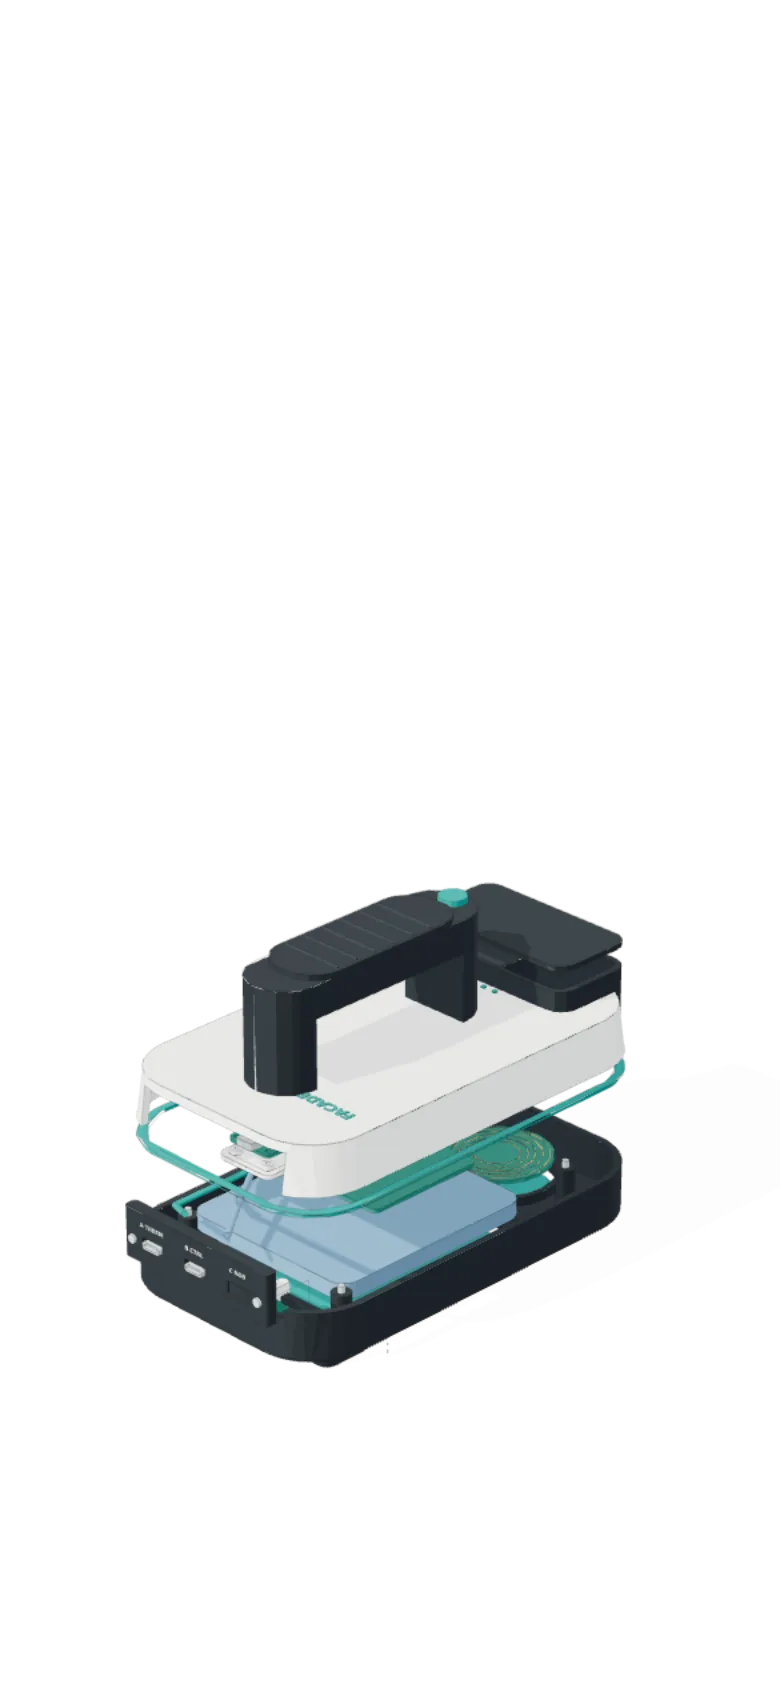
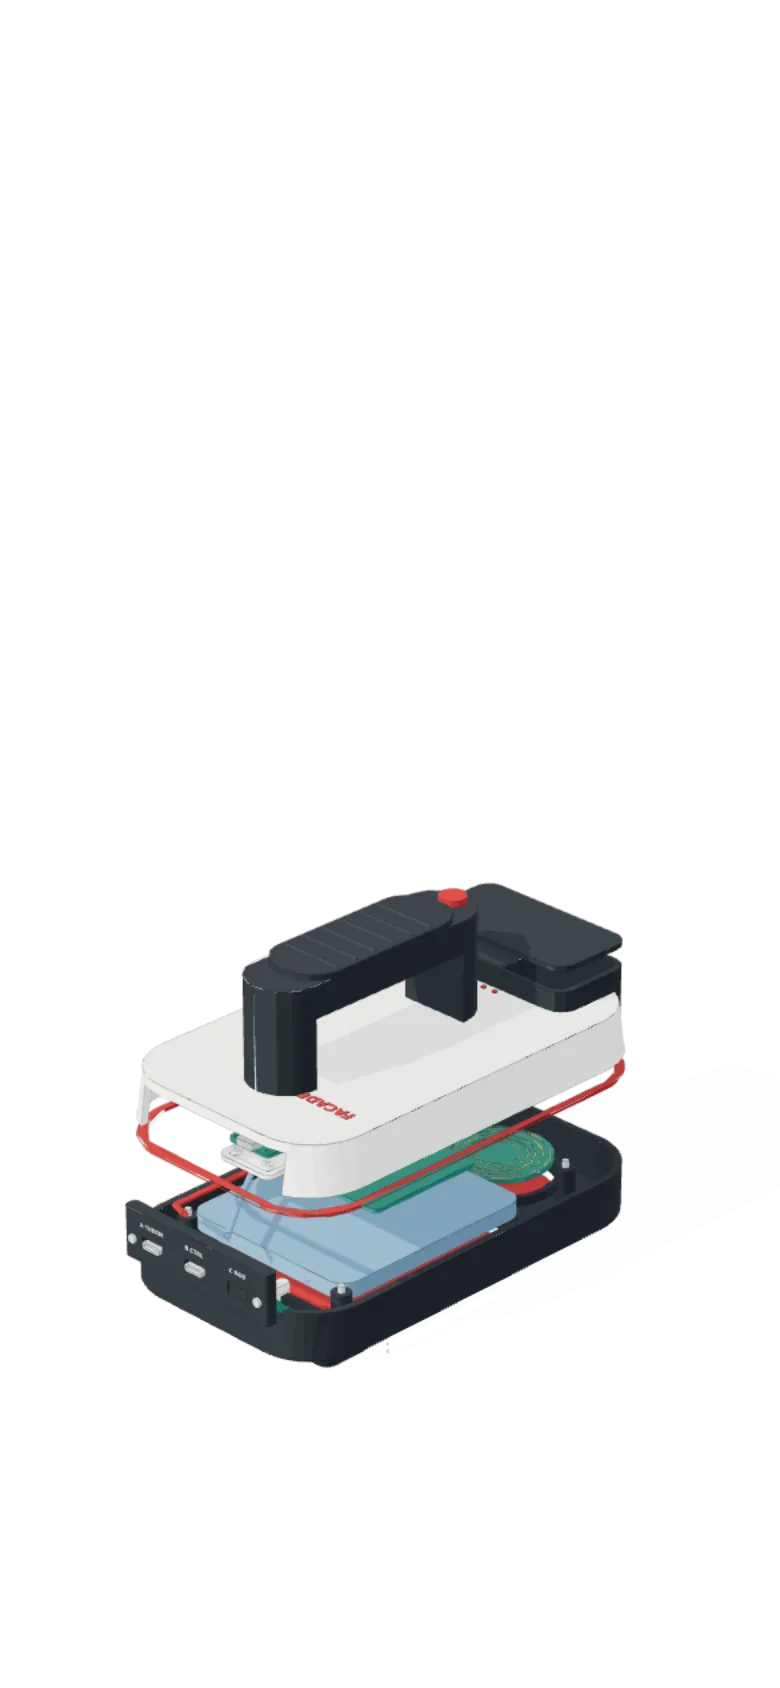
Give the scanner diagram the site's red accent instead of teal
The scanner's accent material (seam band, scan button, status lights, logo,
windows) and the USB label dot now use the page's signal red. The fallback
stills are re-rendered to match.

diff --git a/src/landing/WallViewer.tsx b/src/landing/WallViewer.tsx
@@ -18,6 +18,10 @@ const diagrams:Record<number,Diagram>={
 const noEdges=new Set(['Foil','Insulation','Armor','Cat6','Primer','DrywallPaper']);
 /** Surface variation sampled in object space (triplanar), so no UVs are needed. [map, scale, albedo, roughness] */
 const surfaces:Record<string,['noise'|'spangle',number,number,number]>={ConcreteWall:['noise',2.4,.45,.25],ConcreteFloor:['noise',1.6,.3,.35],Galvanized:['spangle',7,.24,.55],SteelStud:['spangle',10,.09,.4],EMT:['spangle',14,.12,.35],Foil:['noise',12,.12,.6],Insulation:['noise',7,.14,0],CastIron:['noise',9,.35,.35],Copper:['noise',5,.18,.4],Brass:['noise',8,.12,.3],PanelPaint:['noise',3,.05,.25],Armor:['noise',22,.15,.3]};
+/** The scanner's accent parts (seam band, scan button, status lights, logo, windows) come out of its CAD export in teal;
+ * here they take the page's signal red (#c13833), set a shade darker so that under the scene's lighting the lit faces
+ * render at that red rather than lighter. */
+const ACCENT_SOURCE='#178c86',ACCENT='#a82c28';
 /** What each model needs: where it loads from, its part labels and staging, and how scrolling drives the explode. */
 type Label=[layer:string,text:string,system:string,anchor?:string,dot?:string];
 /** Models rest assembled; scroll or drag separates them. With `stay`, a drag leaves the model exploded until Enter assembles it. */
@@ -167,7 +171,7 @@ export default function ExplodedViewer({model:which='wall',reality,focus,scroll,
    model.traverse(obj=>{if(!(obj instanceof T.Mesh))return;let sys='framing';for(let n:T.Object3D|null=obj;n;n=n.parent)if(n.userData.system||n.userData.partId){sys=n.userData.system??n.userData.partId;break}
     const source=obj.material as T.MeshStandardMaterial,name=source.name||'SteelStud',id=`${sys}|${name}`,sheet=sys==='drywall';obj.userData.system=sys;
     if(sheet){obj.geometry.computeBoundingBox();const b=obj.geometry.boundingBox!,lines=new T.LineSegments(sheetLines(b),sheetLineMat);lines.renderOrder=4;obj.add(lines);addFade(sheetLineMat,b.min.x,b.max.x,.6,1)}
-    if(!reals.has(id)){const real=sheet?new T.MeshStandardMaterial({name,color:'#f7f6f2',roughness:.92,metalness:0,transparent:true,depthWrite:false}):source.clone();
+    if(!reals.has(id)){const real=sheet?new T.MeshStandardMaterial({name,color:'#f7f6f2',roughness:.92,metalness:0,transparent:true,depthWrite:false}):source.clone();if(name===ACCENT_SOURCE)real.color.set(ACCENT);
      // Bright, mirror-smooth metals (the kit's aluminum) read better as brushed: rougher, with more environment light.
      if(!sheet&&real.metalness>.8&&real.color.getHSL({h:0,s:0,l:0}).l>.3)real.roughness=Math.max(real.roughness,.32);if(sheet){const b=obj.geometry.boundingBox!;sheetFade=addFade(real,b.min.x,b.max.x,.035,.94)}real.envMapIntensity=name==='Foil'?1.7:real.metalness>.5?(config.merge?1.55:1.25):.9;const surf=surfaces[name];if(surf)addSurface(real,textures[surf[0]],surf);reals.set(id,{mat:real,system:sys,name});
      const ghost=sys==='drywall';diagramMats.set(id,{mat:new T.MeshStandardMaterial({roughness:.8,metalness:0,transparent:ghost,depthWrite:!ghost,side:ghost?T.DoubleSide:T.FrontSide,polygonOffset:true,polygonOffsetFactor:1,polygonOffsetUnits:1}),system:sys,name})}

diff --git a/src/landing/hardware-parts.ts b/src/landing/hardware-parts.ts
@@ -11,7 +11,7 @@ export const hardwareParts:HardwarePart[]=[
  {id:'cameras',number:'02',name:'Sensor nose',role:'Service cap + optional RGB',color:'#354047',anchor:'19_flush_sensor_nose',detail:'A flush nose at the front, with a service cap and a blank that can be swapped for an optional RGB camera. No RGB camera has been selected.'},
  {id:'thermal',number:'03',name:'Thermal camera',role:'FLIR Lepton 3.5 on PureThermal 3',color:'#d69c50',anchor:'18_Lepton_3_5_envelope',detail:'A Lepton 3.5 envelope on a PureThermal 3 board, in a cradle shaped to the vendor model, looking out through the nose. Thermal images show surface temperature only.',source:'https://groupgets.com/products/purethermal-3'},
  {id:'electronics',number:'04',name:'Adafruit Feather RP2040',role:'Controller + sensor interface',color:'#277a6b',anchor:'14_Feather_RP2040_PCB_outline',detail:'Feather RP2040 on a model-specific carrier, beside space reserved for a custom inductance-to-digital (LDC) interface for the coil. Firmware and the interface board are not built.',source:'https://www.adafruit.com/product/4884'},
- {id:'cables',number:'05',name:'Rear USB panel',role:'Three USB-C ports',color:'#178c86',anchor:'24_replaceable_rear_USB_panel',detail:'A replaceable rear panel: port A for the thermal board, port B for the controller, and a blanked port C for the optional RGB camera. Internal cable routes are indicative.'},
+ {id:'cables',number:'05',name:'Rear USB panel',role:'Three USB-C ports',color:'#c13833',anchor:'24_replaceable_rear_USB_panel',detail:'A replaceable rear panel: port A for the thermal board, port B for the controller, and a blanked port C for the optional RGB camera. Internal cable routes are indicative.'},
  {id:'radar',number:'06',name:'Radar bay (reserved)',role:'Space only, no module selected',color:'#688ca8',anchor:'09_RADAR_RESERVATION_ONLY',detail:'A removable RF window and an adapter frame hold space for a radar module. No module has been chosen, so its size, frequency and sensing depth are unknown.'},
  {id:'metal',number:'07',name:'Metal-sensing coil',role:'Coil window + carrier',color:'#c09c5c',anchor:'11_coil_carrier',detail:'A coil carrier behind its own window on the underside. The traces shown are illustrative and the coil envelope is still to be designed; range and accuracy are unmeasured.'},
  {id:'tracking',number:'08',name:'Measuring roller',role:'Distance along the wall',color:'#4b4c48',anchor:'22_measuring_roller',detail:'An 18 mm roller on an axle with a magnet at one end, and space allowed for an AS5600 magnetic angle sensor to count its turns. Slip and calibration are unverified.'},
